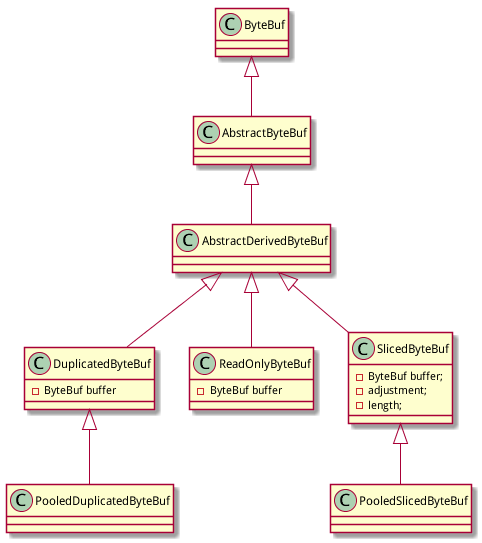
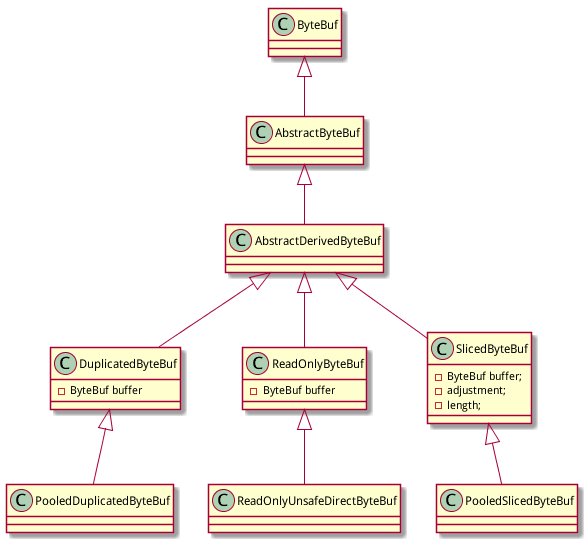
add more ByteBuf class

diff --git a/buffer/inheritance.md b/buffer/inheritance.md
@@ -58,11 +58,13 @@ ByteBuf的基础实现类，按照内存分配方式不同分为：
 
 3. CompositeByteBuf
 
-	在Unpooled和Pooled两大阵营之外, CompositeByteBuf是一个超然的存在.
+	在Unpooled和Pooled两大阵营之外, CompositeByteBuf/FixedCompositeByteBuf是一个超然的存在.
 
     CompositeByteBuf是一个虚拟的buffer,将多个buffer展现为一个简单合并的buffer,以便实现netty最重要的特性之一: zero copy.后面有详细分析.
 
-    从类的功能和实现上看, CompositeByteBuf更应该归入后面的ByteBuf衍生
+    FixedCompositeByteBuf功能类似CompositeByteBuf, 以只读的方式包装一个ByteBuf数组,通常用于写入一组ByteBuf的内容.
+
+    注: 从类的功能和实现上看, 感觉CompositeByteBuf更应该归入后面的ByteBuf衍生类.
 
 ## ByteBuf衍生类
 
@@ -79,6 +81,7 @@ Derived ByteBuf有抽象类AbstractDerivedByteBuf作为基类.AbstractDerivedByt
 - DuplicatedByteBuf: 简单的将所有的请求都委托给包装的ByteBuf
 - PooledDuplicatedByteBuf: 在DuplicatedByteBuf的基础上提供池的支持
 - ReadOnlyByteBuf: 将原有ByteBuf包装为只读的ByteBuf, 所有的写方法都被禁止(抛ReadOnlyBufferException)
+- ReadOnlyUnsafeDirectByteBuf: 在ReadOnlyByteBufferBuf的基础上提供对direct ByteBuffer的支持,为了得到最佳性能使用unsafe
 - SlicedByteBuf: 将原有ByteBuf的部分内容拆分出来的ByteBuf,主要是为了实现zero-copy特性,后面有详细介绍
 - PooledSlicedByteBuf: 在SlicedByteBuf的基础上提供池的支持
 
@@ -89,7 +92,7 @@ Derived ByteBuf有抽象类AbstractDerivedByteBuf作为基类.AbstractDerivedByt
 除了上面介绍的ByteBuf的底层实现类和衍生类之外,netty还提供了3种特殊的ByteBuf:
 
 - EmptyByteBuf: 空的ByteBuf, capacity 和 maximum capacity 都被设置为0.
-- SwappedByteBuf: Swap/交换指的是LITTLE_ENDIAN/BIG_ENDIAN之间的交换, SwappedByteBuf用于包装一个ByteBuf,内容相同但是ByteOrder相反.
+- SwappedByteBuf: Swap/交换指的是LITTLE_ENDIAN/BIG_ENDIAN之间的交换, SwappedByteBuf用于包装一个ByteBuf,内容相同但是ByteOrder相反.它的子类UnsafeDirectSwappedByteBuf支持memoryAddress.
 - WrappedByteBuf: WrappedByteBuf顾名思义是用来包装其他ByteBuf的,代码实现也简单: 包装一个ByteBuf,然后所有方法调用委托给被包装的ByteBuf
 
 WrappedByteBuf的主要作用是作为基类派生出下面几个子类:
